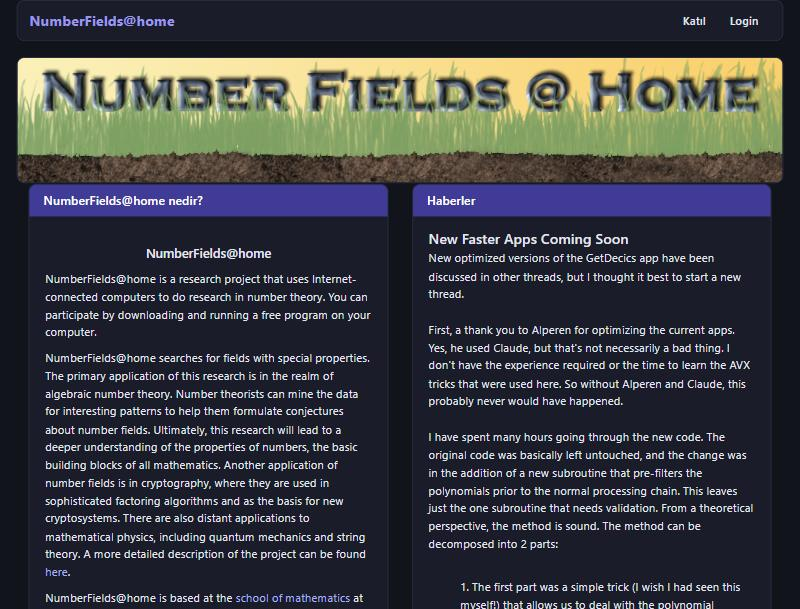
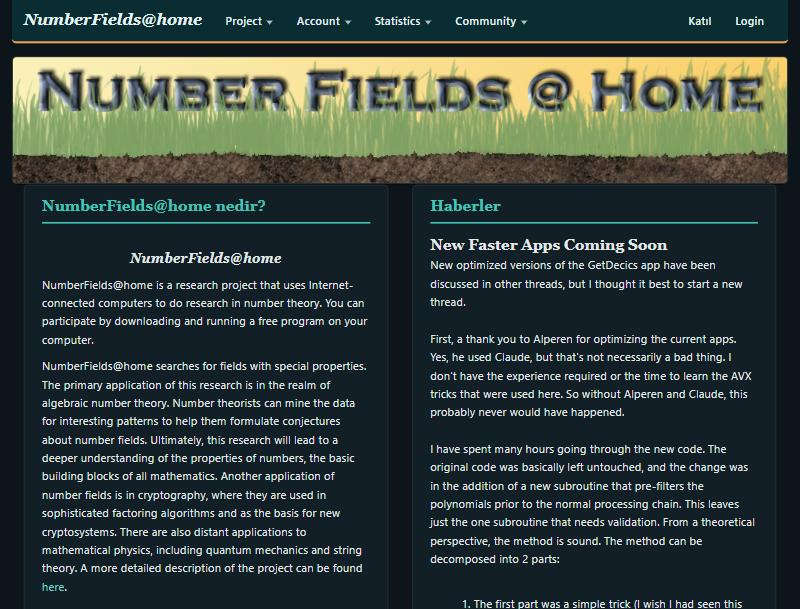
Theme: README and screenshots for Chalk and Paper

diff --git a/theme/README.md b/theme/README.md
@@ -1,25 +1,28 @@
-# Passiflora theme for NumberFields@home
+# Chalk and Paper - a theme for NumberFields@home
 
-A calm light and dark restyle of the NumberFields@home web site. The BOINC pages, menus, tables and forums stay exactly
-as BOINC builds them; only colours, type and spacing change. It follows the light/dark setting of your system and works
-on phones.
+A scholarly light and dark theme for the NumberFields@home web site: serif headings, deep teal with copper accents,
+warm paper in the light mode and ink blue in the dark mode. The BOINC pages, tables and forums keep their structure.
+It follows the light/dark setting of your system and works on phones.
 
 Coded By Alperen Yavuz · <https://github.com/alplix/passiflora>
 
-![Home page](screenshots/home-dark.jpg)
-![System requirements](screenshots/requirements.jpg)
+![Home page, dark](screenshots/home-dark.jpg)
+![Menu, light](screenshots/menu-light.jpg)
+![Top participants, light](screenshots/top-users-light.jpg)
 
 ## What changes
 
 - colours, type, panels, tables, forms and buttons, in light and dark;
+- a menu bar that groups the links the site already has (Project, Account, Statistics, Community); on the home page it
+  reads the link texts of the site itself, so they follow the visitor's language;
 - the home page's system requirements, which described hardware from 2010 (128 MB of RAM, 32 MB of disk,
   "Intel/Amd processor", "Windows, Linux or Mac (x86)"): the same list in the same place, now with current values.
 
-Nothing is added to the pages.
+No new content is added to the pages.
 
 ## For visitors (no change on the server)
 
-**Userscript** (Tampermonkey, Violentmonkey, Greasemonkey): the style and the corrected requirements list. Install a
+**Userscript** (Tampermonkey, Violentmonkey, Greasemonkey): the style, the grouped menu and the corrected requirements list. Install a
 userscript manager, then open:
 
 <https://raw.githubusercontent.com/alplix/passiflora/main/theme/numberfields-passiflora.user.js>
@@ -44,7 +47,7 @@ The requirements list is page content: the five lines are in `enhance.js` if you
 | File | Purpose |
 |---|---|
 | `theme.css` | the stylesheet (source) |
-| `enhance.js` | the corrected requirements list (source) |
+| `enhance.js` | the grouped menu and the corrected requirements list (source) |
 | `build.py` | builds the three files below from the two sources |
 | `numberfields-passiflora.user.js` | userscript |
 | `numberfields-passiflora.user.css` | Stylus user style |
